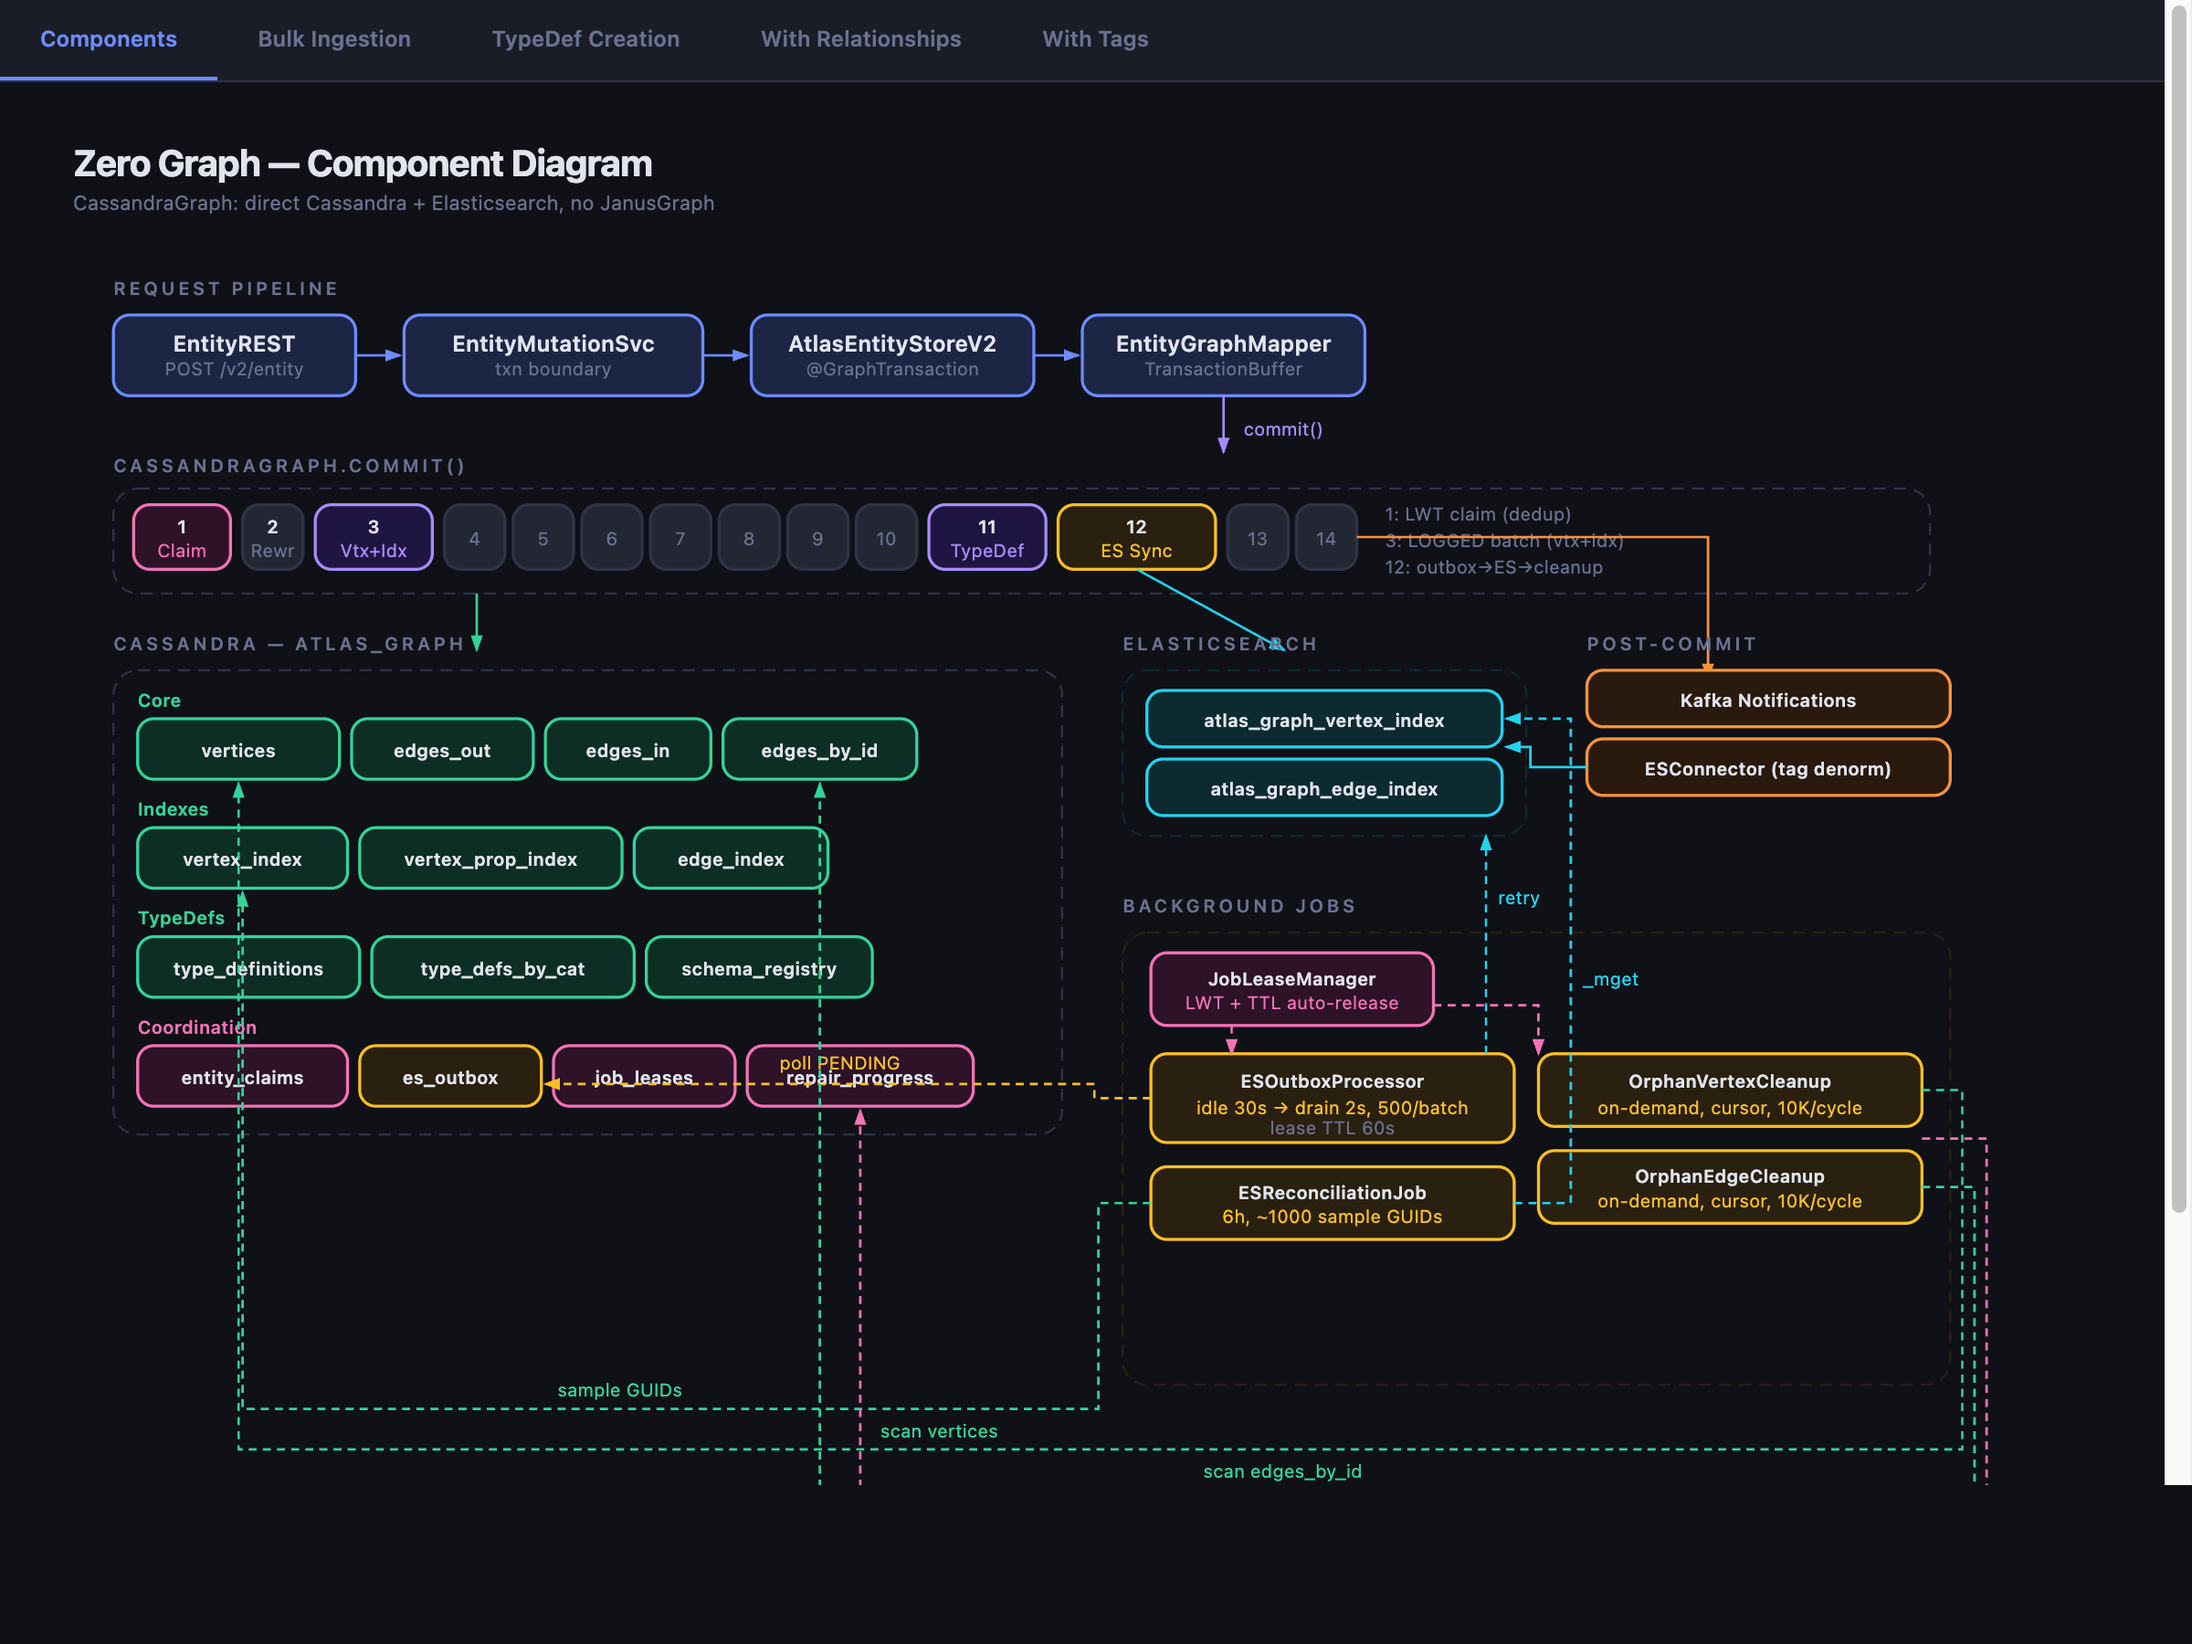
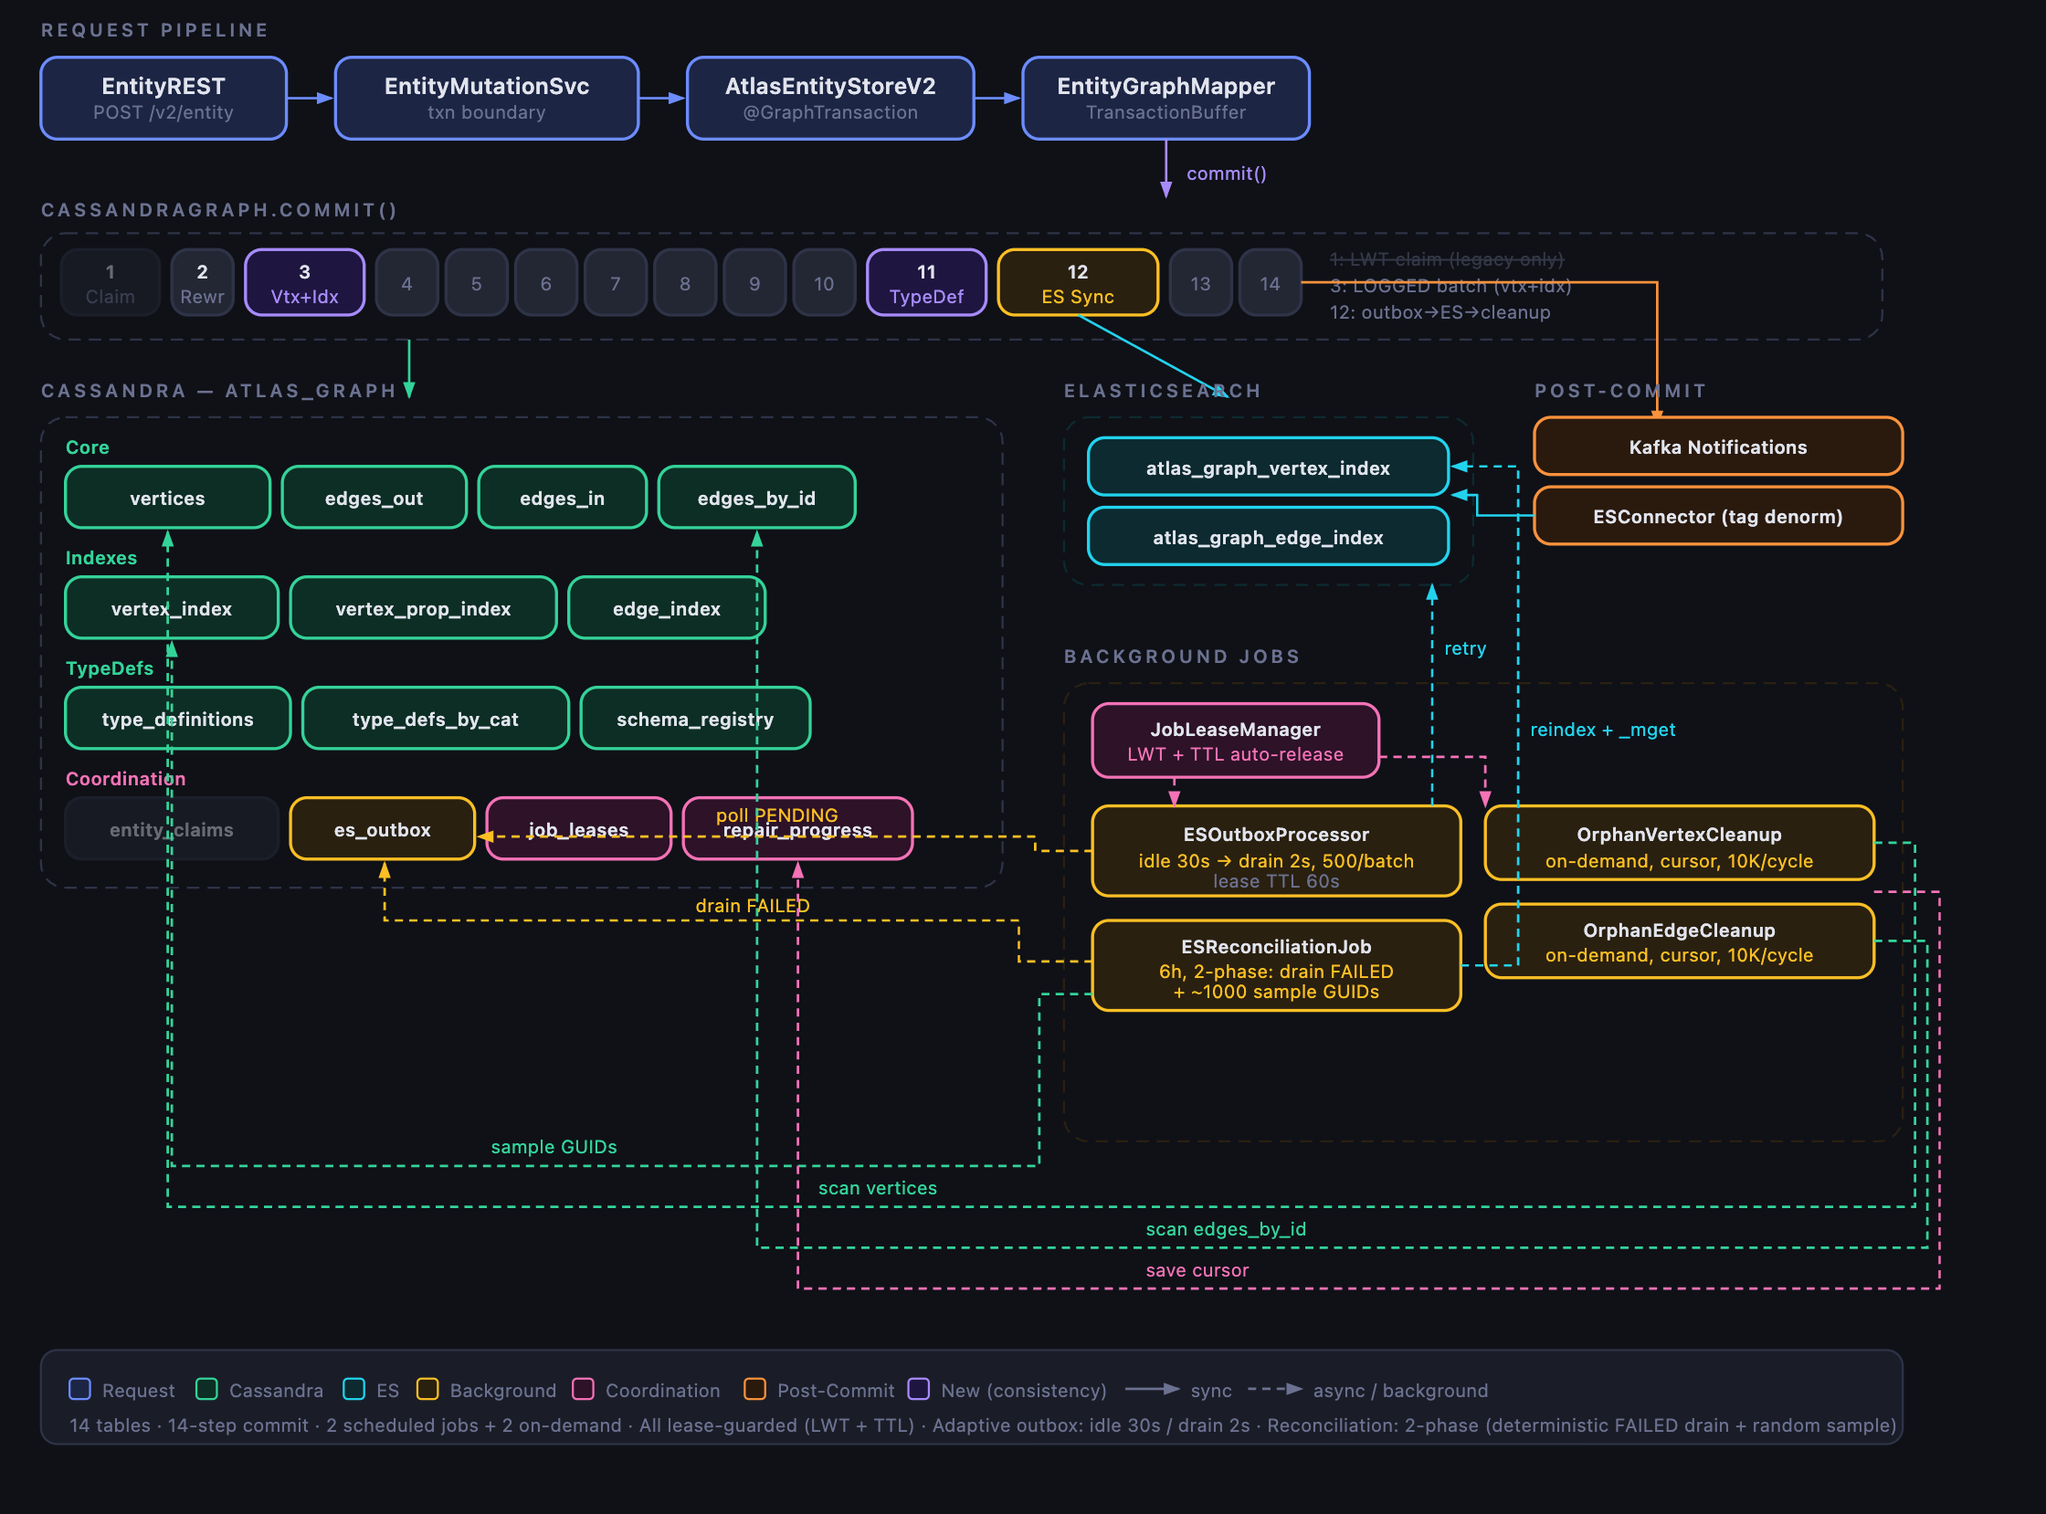
MS-693 MS-683 change outbox reconciliation job to poll on failed entries. add shutdownhook for graceful stops and update diagram

diff --git a/graphdb/cassandra/src/main/java/org/apache/atlas/repository/graphdb/cassandra/ESReconciliationJob.java b/graphdb/cassandra/src/main/java/org/apache/atlas/repository/graphdb/cassandra/ESReconciliationJob.java
@@ -18,11 +18,18 @@ import java.util.*;
 import java.util.concurrent.ThreadLocalRandom;
 
 /**
- * Background reconciliation job that audits Cassandra↔ES consistency via random sampling.
+ * Background reconciliation job that repairs Cassandra↔ES consistency in two phases:
  *
- * The ES outbox provides deterministic coverage of recent failures. This job catches edge
- * cases where the outbox entry itself was lost (e.g., Cassandra write of outbox failed).
- * A random sample of ~1000 GUIDs is checked each cycle — no full scan needed.
+ * <b>Phase 1 — Deterministic:</b> Drains the FAILED partition of the es_outbox table.
+ * These are vertices that the ESOutboxProcessor gave up on after 10 attempts (e.g.,
+ * ES mapping errors, field limit exceeded). The job reads each vertex_id from Cassandra,
+ * extracts the GUID, and reindexes to ES. On success, the FAILED entry is deleted.
+ * This phase is bounded (only processes known failures) and self-healing — once the
+ * root cause is fixed (e.g., ES field limit raised), the next cycle clears the backlog.
+ *
+ * <b>Phase 2 — Probabilistic:</b> Random sampling of ~1000 vertices across the Cassandra
+ * ring to catch edge cases where the outbox entry itself was lost (e.g., Cassandra
+ * write of outbox row failed after vertex was committed).
  *
  * Runs every 6 hours, lease-guarded so only one pod executes at a time.
  */
@@ -39,14 +46,19 @@ public class ESReconciliationJob implements Runnable {
     private static final int REINDEX_BATCH_SIZE = 50;
     private static final double CRITICAL_MISS_RATE = 0.05; // 5%
 
+    private static final int FAILED_DRAIN_BATCH_SIZE = 50; // reindex batch size for failed entries
+
     private final CqlSession session;
     private final CassandraGraph graph;
     private final JobLeaseManager leaseManager;
+    private final ESOutboxRepository outboxRepository;
 
-    public ESReconciliationJob(CqlSession session, CassandraGraph graph, JobLeaseManager leaseManager) {
+    public ESReconciliationJob(CqlSession session, CassandraGraph graph,
+                               JobLeaseManager leaseManager, ESOutboxRepository outboxRepository) {
         this.session = session;
         this.graph = graph;
         this.leaseManager = leaseManager;
+        this.outboxRepository = outboxRepository;
     }
 
     @Override
@@ -64,8 +76,6 @@ public class ESReconciliationJob implements Runnable {
     }
 
     private void runAudit() {
-        LOG.info("ESReconciliationJob: starting sample-based ES audit ({} probes x {} rows)",
-                SAMPLE_PROBES, ROWS_PER_PROBE);
         long startTime = System.currentTimeMillis();
 
         try {
@@ -74,6 +84,13 @@ public class ESReconciliationJob implements Runnable {
                 LOG.warn("ESReconciliationJob: ES client not available, skipping");
                 return;
             }
+
+            // ---- Phase 1: Drain FAILED outbox entries (deterministic repair) ----
+            int failedDrained = drainFailedOutboxEntries();
+
+            // ---- Phase 2: Random sample audit (probabilistic repair) ----
+            LOG.info("ESReconciliationJob: starting sample-based ES audit ({} probes x {} rows)",
+                    SAMPLE_PROBES, ROWS_PER_PROBE);
 
             int totalSampled = 0;
             int totalMissing = 0;
@@ -140,8 +157,11 @@ public class ESReconciliationJob implements Runnable {
                         (int)(CRITICAL_MISS_RATE * 100));
             }
 
-            LOG.info("ESReconciliationJob: completed in {}ms — sampled {} GUIDs, {} missing from ES, {} reindexed (miss rate: {})",
-                    elapsed, totalSampled, totalMissing, totalReindexed, String.format("%.2f%%", missRate * 100));
+            LOG.info("ESReconciliationJob: completed in {}ms — " +
+                            "phase1: {} failed outbox entries drained, " +
+                            "phase2: sampled {} GUIDs, {} missing from ES, {} reindexed (miss rate: {})",
+                    elapsed, failedDrained, totalSampled, totalMissing, totalReindexed,
+                    String.format("%.2f%%", missRate * 100));
 
         } catch (Exception e) {
             LOG.error("ESReconciliationJob: failed", e);
@@ -209,6 +229,81 @@ public class ESReconciliationJob implements Runnable {
                     guids.size(), e.getMessage());
         }
         return missing;
+    }
+
+    /**
+     * Phase 1: Read all FAILED outbox vertex_ids, look up each vertex in Cassandra,
+     * extract the GUID, reindex to ES, and delete the FAILED entry on success.
+     *
+     * This is deterministic — processes exactly the known failures, not a random sample.
+     * Bounded by the FAILED partition size (typically small after the root cause is fixed).
+     */
+    private int drainFailedOutboxEntries() {
+        List<String> failedVertexIds = outboxRepository.getFailedVertexIds(5000);
+        if (failedVertexIds.isEmpty()) {
+            LOG.info("ESReconciliationJob phase 1: no FAILED outbox entries");
+            return 0;
+        }
+
+        LOG.info("ESReconciliationJob phase 1: draining {} FAILED outbox entries", failedVertexIds.size());
+
+        int reindexed = 0;
+        int notFound = 0;
+
+        // Batch the GUIDs for reindexVertices
+        List<String> guidBatch = new ArrayList<>(FAILED_DRAIN_BATCH_SIZE);
+        // Track vertex_id → guid so we can delete FAILED entries on success
+        Map<String, String> vertexIdToGuid = new LinkedHashMap<>();
+
+        for (String vertexId : failedVertexIds) {
+            // Read vertex from Cassandra, extract GUID
+            CassandraVertex vertex = graph.getVertexRepository().getVertex(vertexId, graph);
+            if (vertex == null) {
+                // Vertex was deleted — clean up the stale FAILED entry
+                outboxRepository.deleteFailedEntry(vertexId);
+                notFound++;
+                continue;
+            }
+
+            String guid = vertex.getProperty(Constants.GUID_PROPERTY_KEY, String.class);
+            if (guid == null) {
+                // Non-entity vertex (e.g., system vertex) — clean up
+                outboxRepository.deleteFailedEntry(vertexId);
+                notFound++;
+                continue;
+            }
+
+            guidBatch.add(guid);
+            vertexIdToGuid.put(vertexId, guid);
+
+            if (guidBatch.size() >= FAILED_DRAIN_BATCH_SIZE) {
+                int count = graph.reindexVertices(guidBatch);
+                reindexed += count;
+                // Delete FAILED entries for successfully reindexed vertices
+                if (count == guidBatch.size()) {
+                    for (String vid : vertexIdToGuid.keySet()) {
+                        outboxRepository.deleteFailedEntry(vid);
+                    }
+                }
+                guidBatch.clear();
+                vertexIdToGuid.clear();
+            }
+        }
+
+        // Process remaining batch
+        if (!guidBatch.isEmpty()) {
+            int count = graph.reindexVertices(guidBatch);
+            reindexed += count;
+            if (count == guidBatch.size()) {
+                for (String vid : vertexIdToGuid.keySet()) {
+                    outboxRepository.deleteFailedEntry(vid);
+                }
+            }
+        }
+
+        LOG.info("ESReconciliationJob phase 1: drained {} FAILED entries — {} reindexed, {} not found/cleaned up",
+                failedVertexIds.size(), reindexed, notFound);
+        return reindexed;
     }
 
     private int reindexMissing(Set<String> guids) {

diff --git a/graphdb/cassandra/src/main/java/org/apache/atlas/repository/graphdb/cassandra/CassandraGraph.java b/graphdb/cassandra/src/main/java/org/apache/atlas/repository/graphdb/cassandra/CassandraGraph.java
@@ -88,7 +88,7 @@ public class CassandraGraph implements AtlasGraph<CassandraVertex, CassandraEdge
         this.esOutboxRepository  = new ESOutboxRepository(session);
         this.leaseManager        = new JobLeaseManager(session);
         this.esOutboxProcessor   = new ESOutboxProcessor(esOutboxRepository, leaseManager);
-        this.repairJobScheduler  = new RepairJobScheduler(session, this, leaseManager);
+        this.repairJobScheduler  = new RepairJobScheduler(session, this, leaseManager, esOutboxRepository);
         this.multiProperties     = ConcurrentHashMap.newKeySet();
         this.idStrategy          = idStrategy != null ? idStrategy : RuntimeIdStrategy.LEGACY;
         this.claimEnabled        = claimEnabled;
@@ -663,10 +663,17 @@ public class CassandraGraph implements AtlasGraph<CassandraVertex, CassandraEdge
                 LOG.info("commit: atomic batch wrote {} new vertices with their index entries", newVertices.size());
             }
 
-            // Update dirty vertices (these already have indexes; index updates are idempotent overwrites)
+            // Update dirty vertices in a LOGGED batch (atomic — all-or-nothing on crash)
             List<CassandraVertex> dirtyVertices = buffer.getDirtyVertices();
-            for (CassandraVertex v : dirtyVertices) {
-                vertexRepository.updateVertex(v);
+            if (!dirtyVertices.isEmpty()) {
+                com.datastax.oss.driver.api.core.cql.BatchStatementBuilder dirtyBatch =
+                        com.datastax.oss.driver.api.core.cql.BatchStatement.builder(
+                                com.datastax.oss.driver.api.core.cql.DefaultBatchType.LOGGED);
+                for (CassandraVertex v : dirtyVertices) {
+                    dirtyBatch.addStatement(vertexRepository.bindInsertVertex(v));
+                }
+                session.execute(dirtyBatch.build());
+                LOG.info("commit: atomic batch updated {} dirty vertices", dirtyVertices.size());
             }
 
             // Flush new edges
@@ -1626,6 +1633,18 @@ public class CassandraGraph implements AtlasGraph<CassandraVertex, CassandraEdge
 
     @Override
     public void shutdown() {
+        LOG.info("CassandraGraph shutdown initiated — stopping background processors");
+        try {
+            esOutboxProcessor.stop();
+        } catch (Exception e) {
+            LOG.warn("Error stopping ESOutboxProcessor: {}", e.getMessage());
+        }
+        try {
+            repairJobScheduler.stop();
+        } catch (Exception e) {
+            LOG.warn("Error stopping RepairJobScheduler: {}", e.getMessage());
+        }
+        LOG.info("Background processors stopped — closing Cassandra session");
         CassandraSessionProvider.shutdown();
     }
 

diff --git a/graphdb/cassandra/src/main/java/org/apache/atlas/repository/graphdb/cassandra/ESOutboxRepository.java b/graphdb/cassandra/src/main/java/org/apache/atlas/repository/graphdb/cassandra/ESOutboxRepository.java
@@ -160,6 +160,32 @@ public class ESOutboxRepository {
         return entries;
     }
 
+    /**
+     * Returns all vertex_ids in the FAILED partition. Used by ESReconciliationJob
+     * to deterministically drain entries that the outbox processor gave up on.
+     */
+    public List<String> getFailedVertexIds(int limit) {
+        ResultSet rs = session.execute(
+            selectPendingStmt.bind(STATUS_FAILED).setPageSize(limit)
+        );
+
+        List<String> ids = new ArrayList<>();
+        int count = 0;
+        for (Row row : rs) {
+            if (count >= limit) break;
+            ids.add(row.getString("vertex_id"));
+            count++;
+        }
+        return ids;
+    }
+
+    /**
+     * Delete a single entry from the FAILED partition after successful reindex.
+     */
+    public void deleteFailedEntry(String vertexId) {
+        session.execute(deletePendingStmt.bind(STATUS_FAILED, vertexId));
+    }
+
     private OutboxEntry rowToEntry(Row row) {
         return new OutboxEntry(
             row.getString("vertex_id"),

diff --git a/graphdb/cassandra/src/main/java/org/apache/atlas/repository/graphdb/cassandra/CassandraGraphDatabase.java b/graphdb/cassandra/src/main/java/org/apache/atlas/repository/graphdb/cassandra/CassandraGraphDatabase.java
@@ -99,6 +99,17 @@ public class CassandraGraphDatabase implements GraphDatabase<CassandraVertex, Ca
             LOG.info("CassandraGraph config: idStrategy={}, claimEnabled={}", idStrategy, claimEnabled);
             CassandraGraph graph = new CassandraGraph(session, idStrategy, claimEnabled);
             LOG.info("CassandraGraph created successfully.");
+
+            // Register JVM shutdown hook for graceful cleanup
+            Runtime.getRuntime().addShutdownHook(new Thread(() -> {
+                LOG.info("JVM shutdown hook: shutting down CassandraGraph gracefully");
+                try {
+                    graph.shutdown();
+                } catch (Exception e) {
+                    LOG.warn("Error during CassandraGraph shutdown: {}", e.getMessage());
+                }
+            }, "cassandra-graph-shutdown"));
+
             return graph;
         } catch (AtlasException e) {
             throw new RuntimeException("Failed to create CassandraGraph", e);

diff --git a/graphdb/cassandra/src/main/java/org/apache/atlas/repository/graphdb/cassandra/RepairJobScheduler.java b/graphdb/cassandra/src/main/java/org/apache/atlas/repository/graphdb/cassandra/RepairJobScheduler.java
@@ -37,14 +37,14 @@ public class RepairJobScheduler {
     private final AtomicBoolean running = new AtomicBoolean(false);
 
     public RepairJobScheduler(CqlSession session, CassandraGraph graph,
-                               JobLeaseManager leaseManager) {
+                               JobLeaseManager leaseManager, ESOutboxRepository outboxRepository) {
         this.scheduler = Executors.newSingleThreadScheduledExecutor(r -> {
             Thread t = new Thread(r, "repair-scheduler");
             t.setDaemon(true);
             return t;
         });
 
-        this.esReconciliationJob = new ESReconciliationJob(session, graph, leaseManager);
+        this.esReconciliationJob = new ESReconciliationJob(session, graph, leaseManager, outboxRepository);
     }
 
     public void start() {
